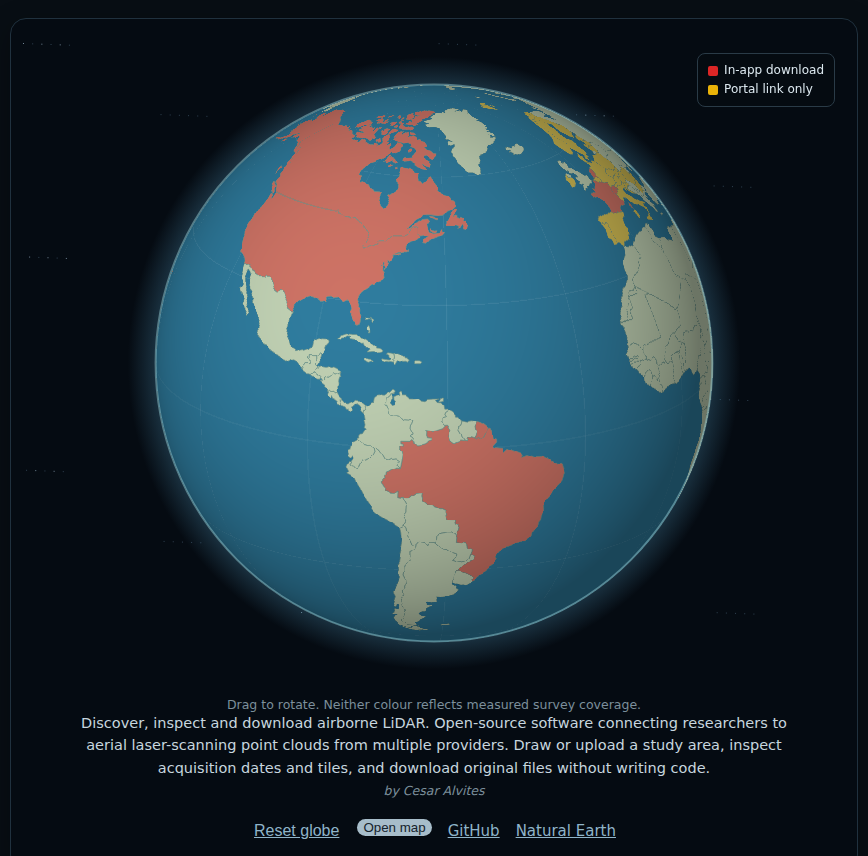
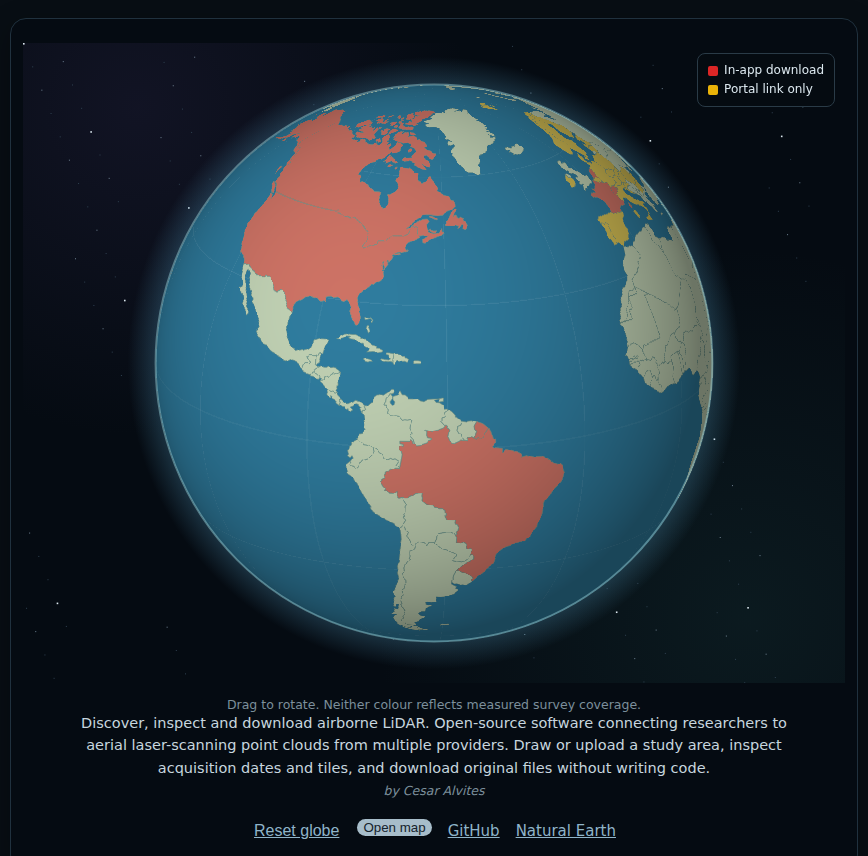
Give the globe backdrop a subtle galaxy ambience
Two faint, fixed nebula glows (violet top-left, teal bottom-right)
behind a denser, three-tier starfield (200 stars instead of 95, a
few brighter ones for depth). Purely decorative background work --
low opacity throughout so it never competes with the red/yellow
coverage colours, which stay the only thing carrying meaning. No
DEM or terrain data used or implied.

Changed region(s): [[0.4355, 0.4556, 0.4666, 0.486]]

diff --git a/inst/app/www/globe.js b/inst/app/www/globe.js
@@ -39,7 +39,20 @@ document.addEventListener('DOMContentLoaded', async () => {
     if(!pixels||!canvas.clientWidth)return;
     const w=Math.min(1100,Math.round(canvas.clientWidth)),h=canvas.clientHeight;
     canvas.width=w;canvas.height=h;ctx.fillStyle='#050b12';ctx.fillRect(0,0,w,h);
-    for(let i=0;i<95;i++){ctx.fillStyle=i%4?'#304252':'#718494';ctx.fillRect((i*137.51)%w,(i*71.13)%h,1,1);}
+    // Two faint, fixed nebula glows behind the starfield for a bit of depth;
+    // subtle enough to never compete with the globe's red/yellow coverage colours.
+    const neb1=ctx.createRadialGradient(w*.14,h*.1,0,w*.14,h*.1,w*.4);
+    neb1.addColorStop(0,'#3a2f5e3d');neb1.addColorStop(1,'#3a2f5e00');
+    ctx.fillStyle=neb1;ctx.fillRect(0,0,w,h);
+    const neb2=ctx.createRadialGradient(w*.88,h*.9,0,w*.88,h*.9,w*.45);
+    neb2.addColorStop(0,'#1f4a4a3d');neb2.addColorStop(1,'#1f4a4a00');
+    ctx.fillStyle=neb2;ctx.fillRect(0,0,w,h);
+    for(let i=0;i<200;i++){
+      const x=(i*137.51)%w,y=(i*71.13+(i%17)*23)%h,tier=i%11;
+      ctx.fillStyle=tier===0?'#dbe7ee':tier<4?'#718494':'#304252';
+      const size=tier===0?1.6:1;
+      ctx.fillRect(x,y,size,size);
+    }
     const r=Math.min(w*.43,h*.435),cx=w/2,cy=h/2,phi=lat*Math.PI/180,lambda=lon*Math.PI/180;
     const glow=ctx.createRadialGradient(cx,cy,r*.9,cx,cy,r*1.1);glow.addColorStop(0,'#559ec480');glow.addColorStop(1,'#559ec400');ctx.fillStyle=glow;ctx.fillRect(0,0,w,h);
     const img=ctx.getImageData(0,0,w,h),out=img.data;
